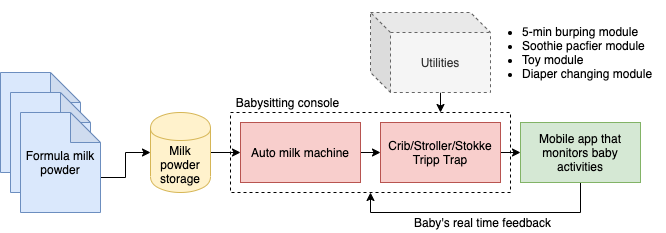
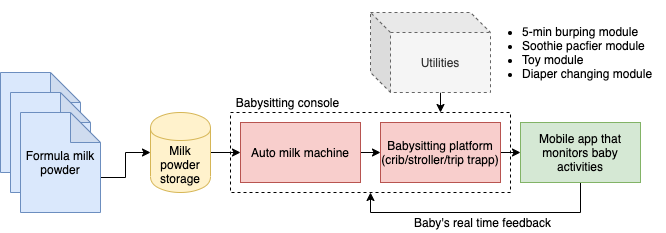
update diagram description

Changed region(s): [[0.5706, 0.6009, 0.7508, 0.721]]

diff --git a/_posts/2022-12-28-babysitting-vs-machine-learning.md b/_posts/2022-12-28-babysitting-vs-machine-learning.md
@@ -42,16 +42,25 @@ There are many similarities between babysitting and machine learing.
 
 # System design and conclusion
 
-To illustrate, a simple babysitting system that I am practicing with my baby is
+To illustrate, a simple babysitting system that I am using for my baby is
 depicted as below.
 
 ![Babysitting system
 pipeline](https://yueguoguo.github.io/images/babysitting_pipeline.png) <font
 size="1"> The pipeline in a babysitting system is similar to that in a machine
-learning system. It takes the raw input to feed the baby, and the feedback from
-the baby is continuously collected to "retrain" (reprocess) the baby. </font>
+learning system. </font>
 
-Gladly, the engineering best practices helps my baby grow with health and
+* The pipeline takes the raw input to feed the baby, and the feedback from the
+  baby is continuously collected to "retrain" (reprocess) the baby. 
+* The core component is the *babysitting console* where there is an *auto milk
+  maker machine* and a *babysitting platform* which consists of the crib, the
+  stroller, Stokke Tripp Trap, etc. 
+* A set of *utilities* are used to practice the daily babysitting.
+* The mobile app collects real-time data and feedback from baby, with which the
+  decisions are made to fine tune the "parameters" used in the babysitting
+  console. 
+
+Gladly, the engineering best practices helps my baby grow with healthiness and
 happiness - its growth data are above 90% quantile of the WHO child standard for
 its age. Hopefully with the continuous optimization performed by its parents,
 the babysitting system will help the baby's growth in the life-term run with
